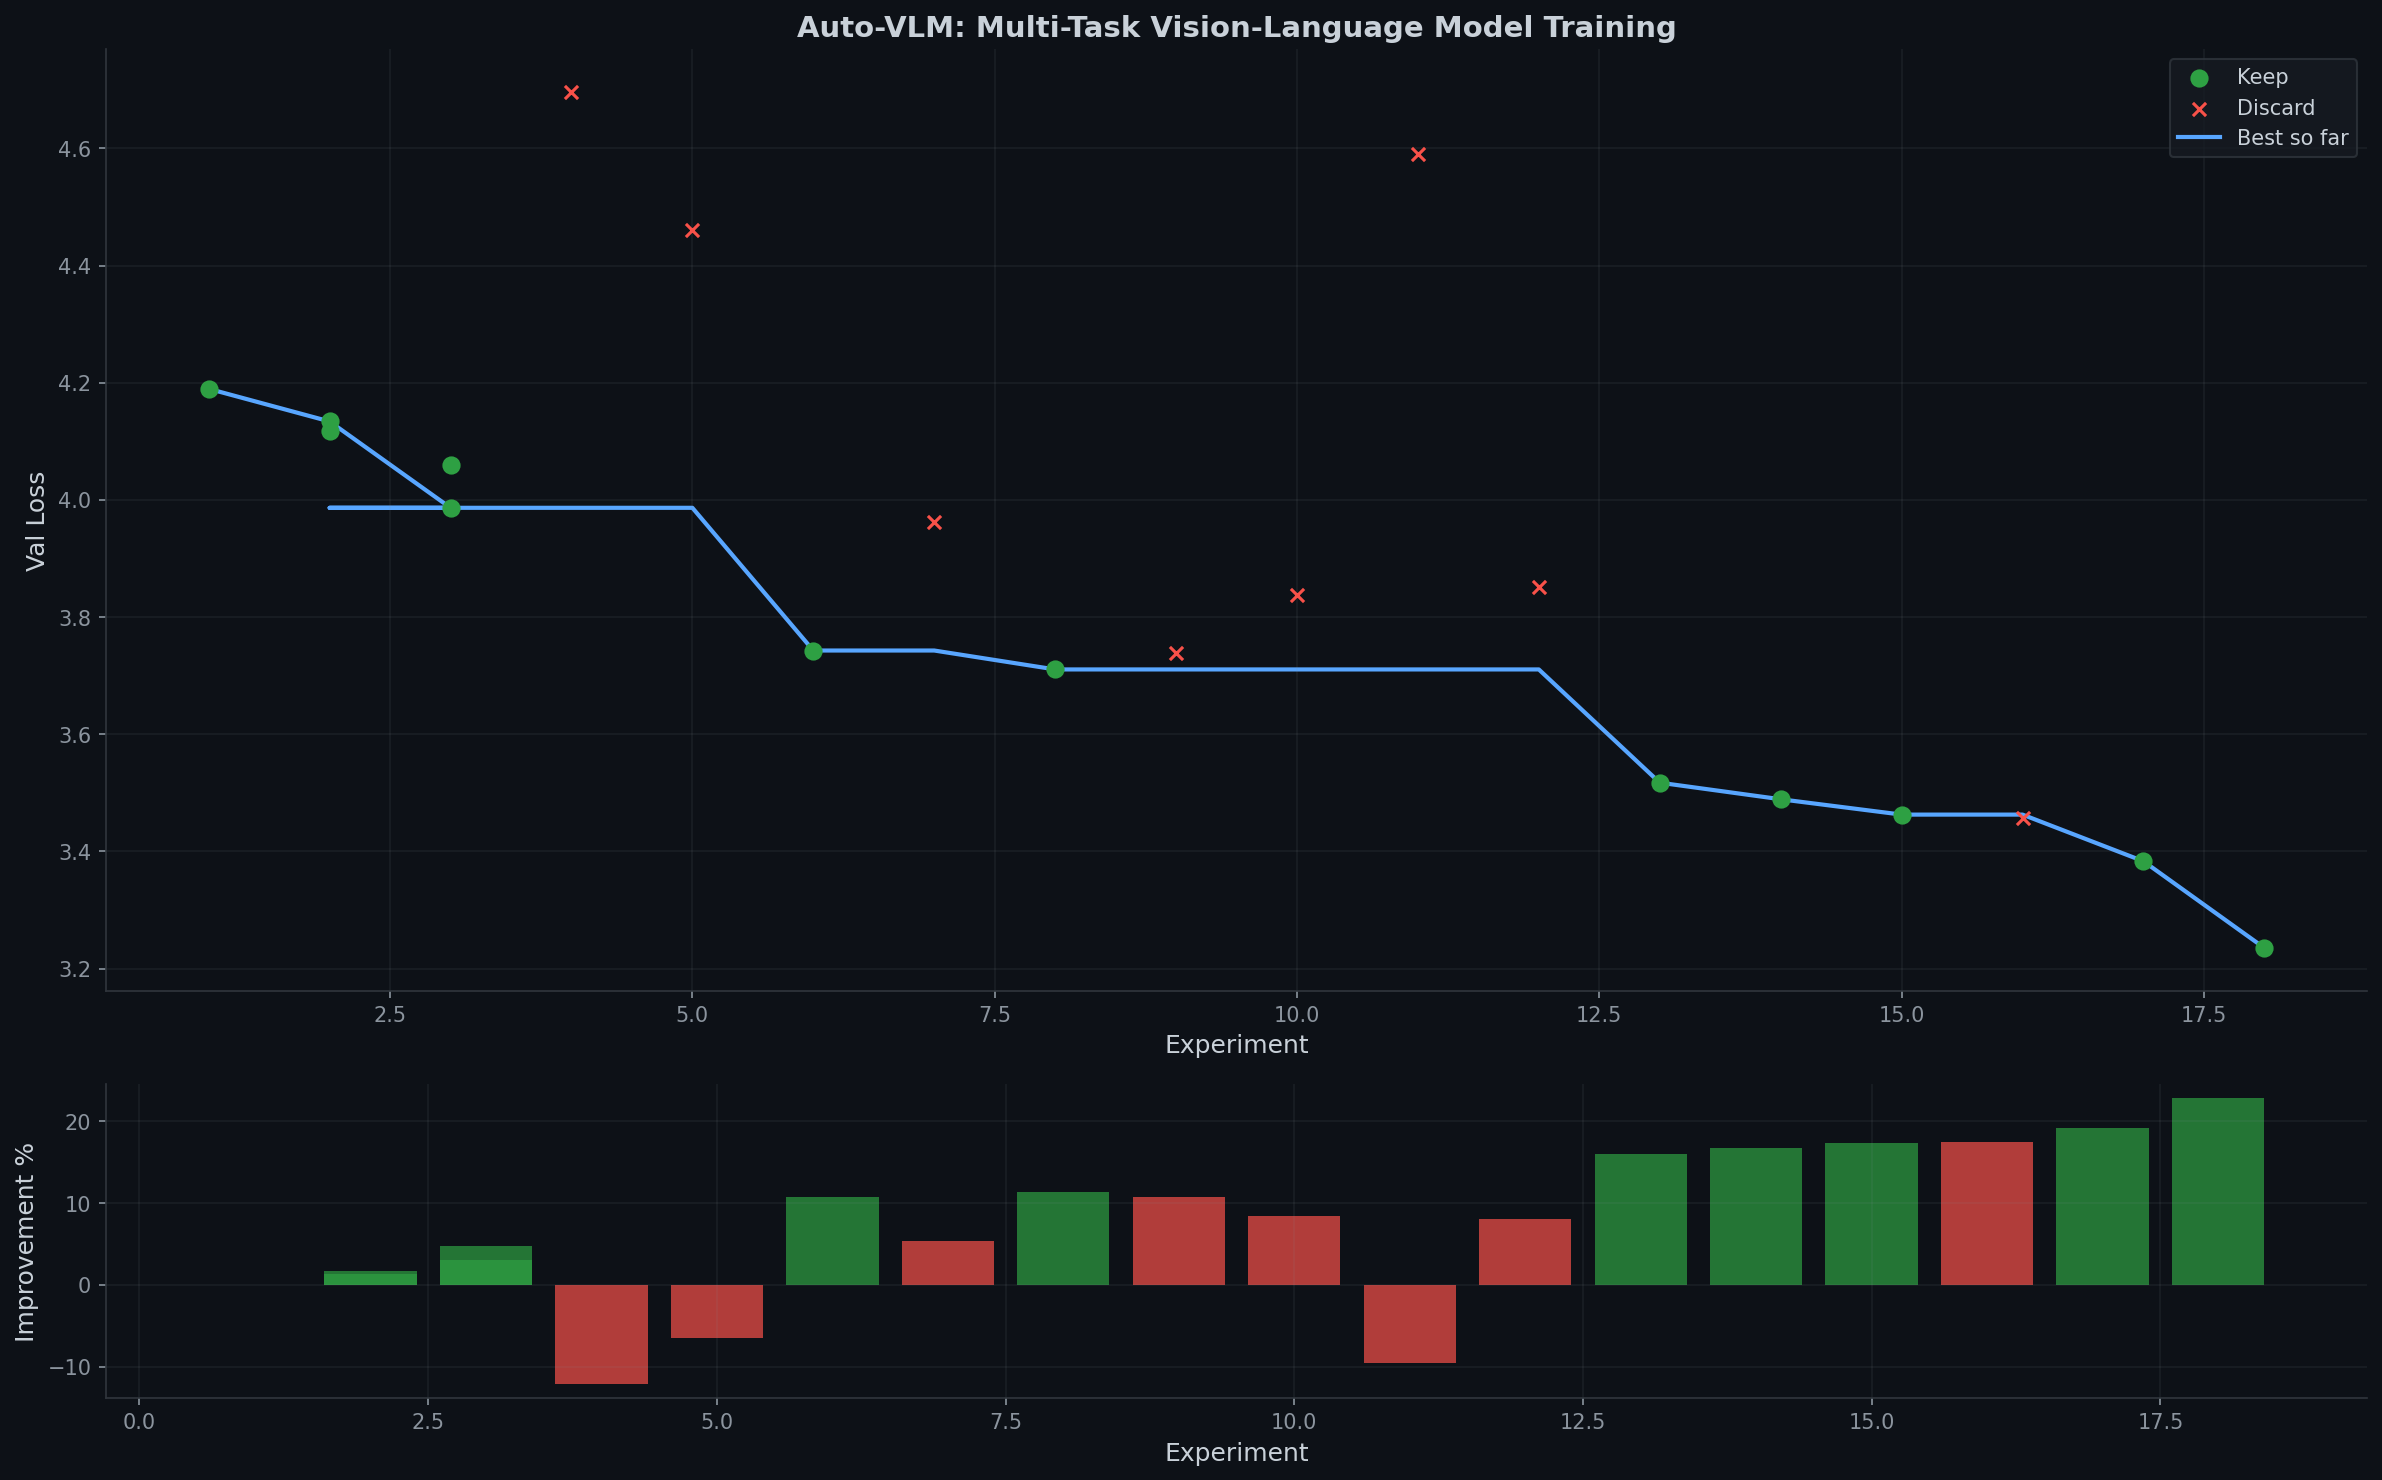
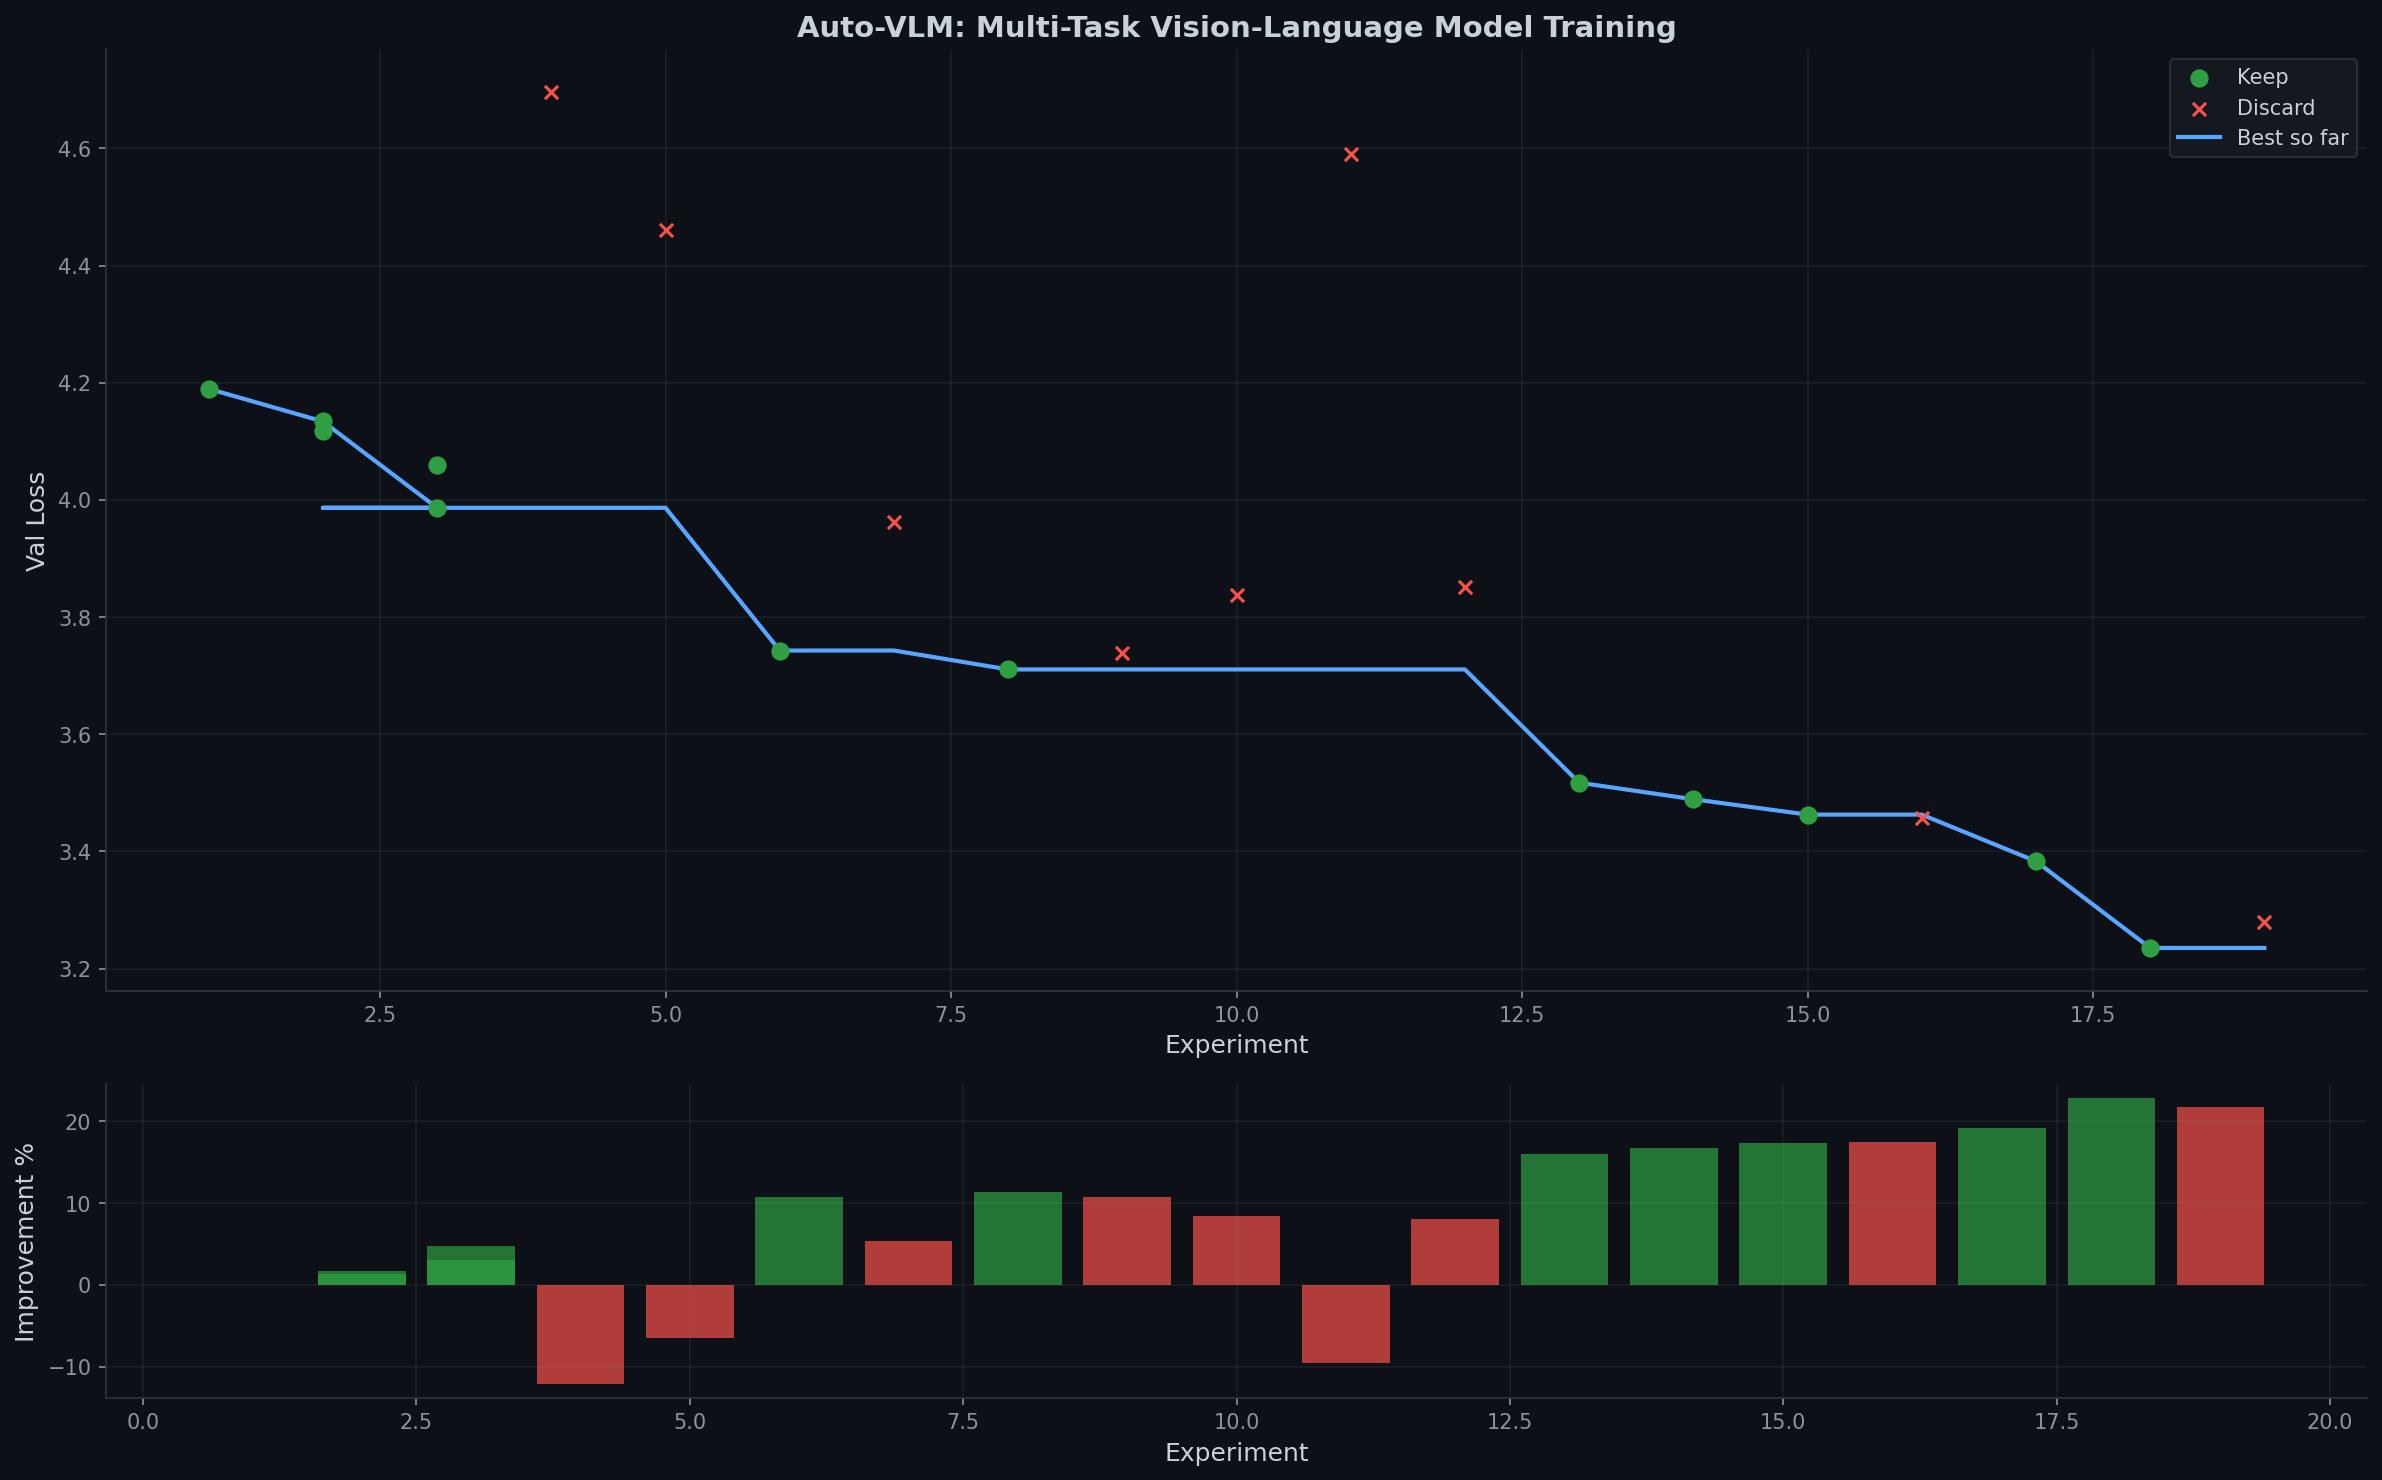
exp 019: upsampled OD/Seg (val=3.2788) OD+Seg better, overall slight regress

diff --git a/index.html b/index.html
@@ -136,7 +136,7 @@
     </div>
 
     <div class="stats">
-        <div class="stat-card"><div class="label">Experiments</div><div class="value" id="total-exp">20</div></div>
+        <div class="stat-card"><div class="label">Experiments</div><div class="value" id="total-exp">21</div></div>
         <div class="stat-card"><div class="label">Kept</div><div class="value green" id="kept-exp">12</div></div>
         <div class="stat-card"><div class="label">Best Val Loss</div><div class="value" id="best-loss">3.2351</div></div>
         <div class="stat-card"><div class="label">Improvement</div><div class="value yellow" id="improvement">22.8%</div></div>

diff --git a/train_mlx.py b/train_mlx.py
@@ -458,7 +458,22 @@ def train():
     val_examples = load_data("val")
     images = load_images()
 
-    print(f"  Train examples: {len(train_examples)}")
+    # Upsample underrepresented tasks (OD, Seg, Describe) so model learns them
+    from collections import Counter
+    task_counts = Counter(ex["task"] for ex in train_examples)
+    max_count = max(task_counts.values())
+    upsampled = list(train_examples)
+    for task, count in task_counts.items():
+        if count < max_count:
+            task_exs = [ex for ex in train_examples if ex["task"] == task]
+            repeat = max(1, round(max_count / count)) - 1
+            upsampled.extend(task_exs * repeat)
+    train_examples = upsampled
+
+    print(f"  Train examples: {len(train_examples)} (after upsampling)")
+    task_counts_new = Counter(ex["task"] for ex in train_examples)
+    for t, c in sorted(task_counts_new.items()):
+        print(f"    {t}: {c}")
     print(f"  Val examples: {len(val_examples)}")
     print(f"  Images loaded: {len(images)}")
     print(f"  Vocab size: {CONFIG.vocab_size}")
